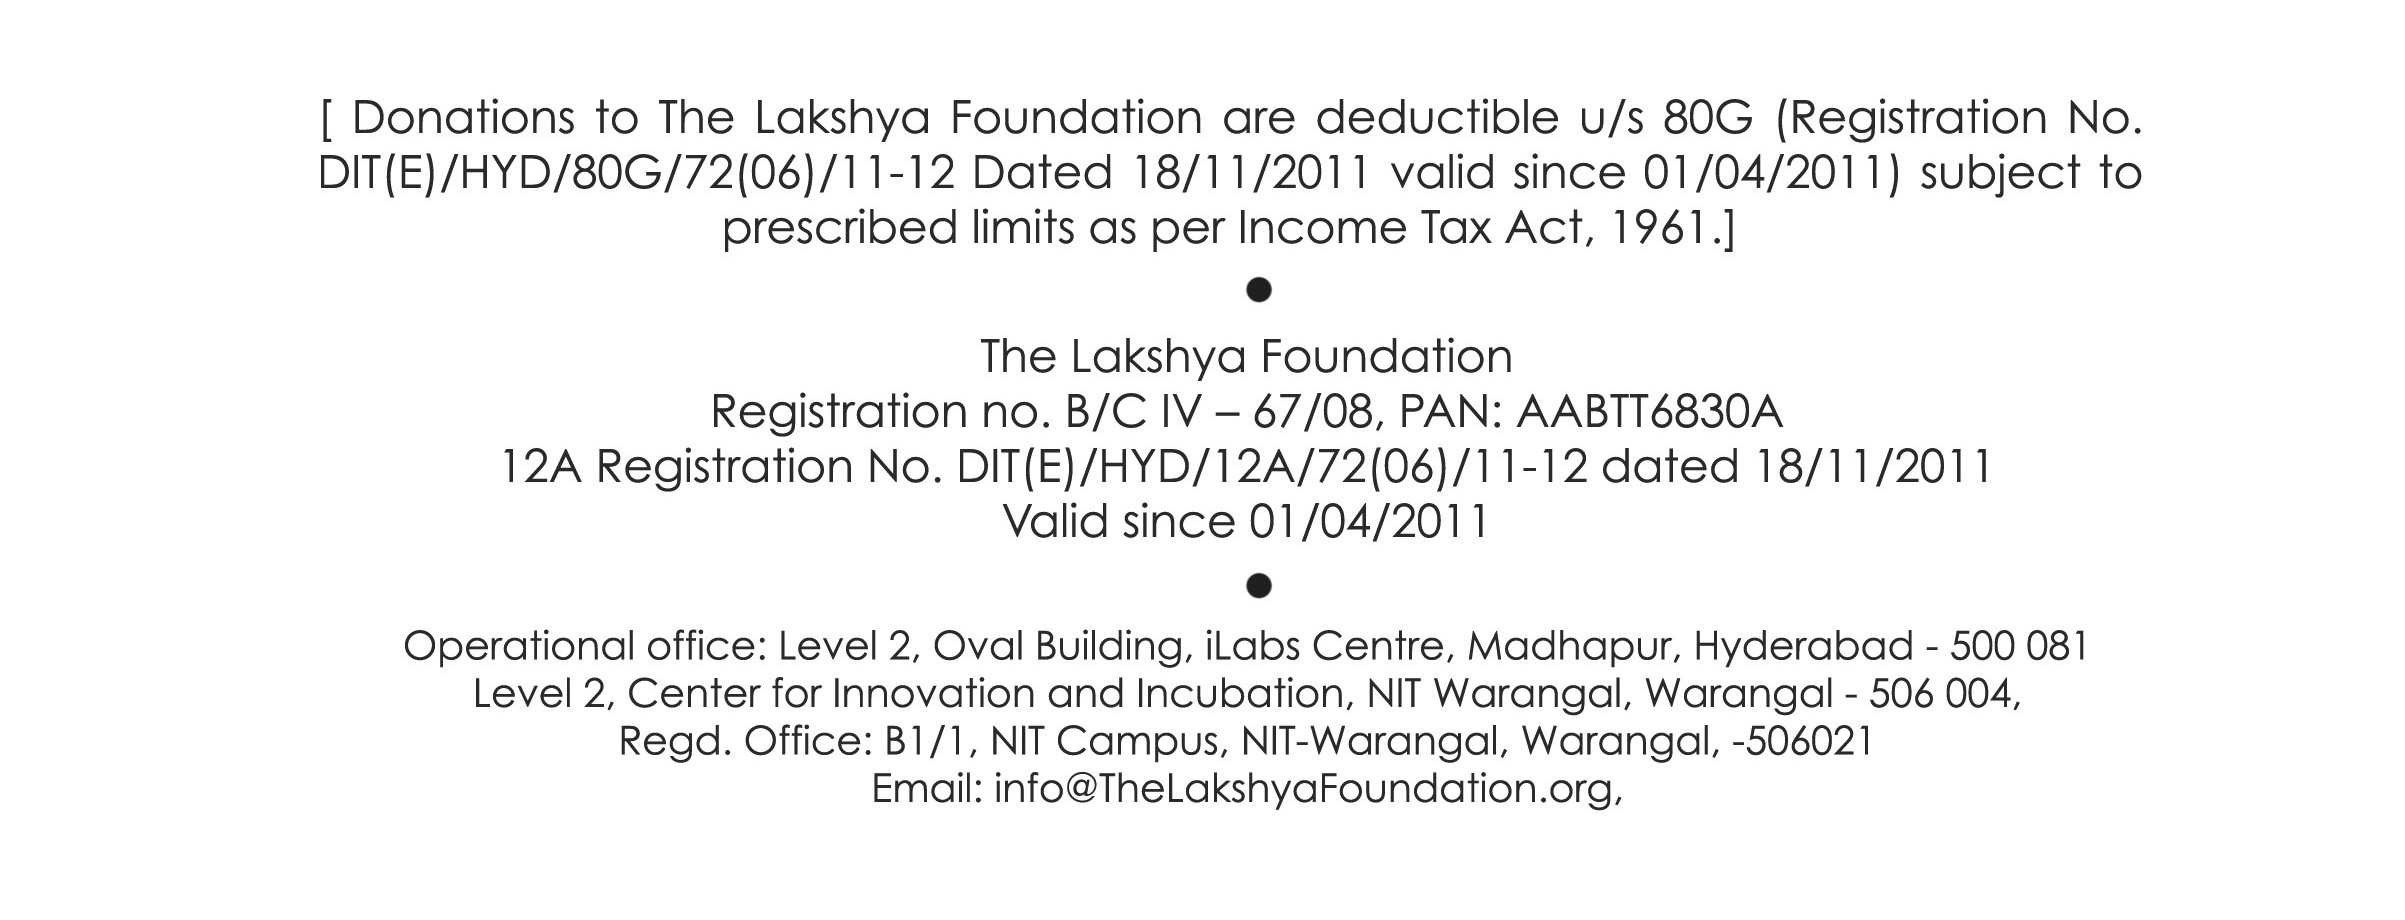
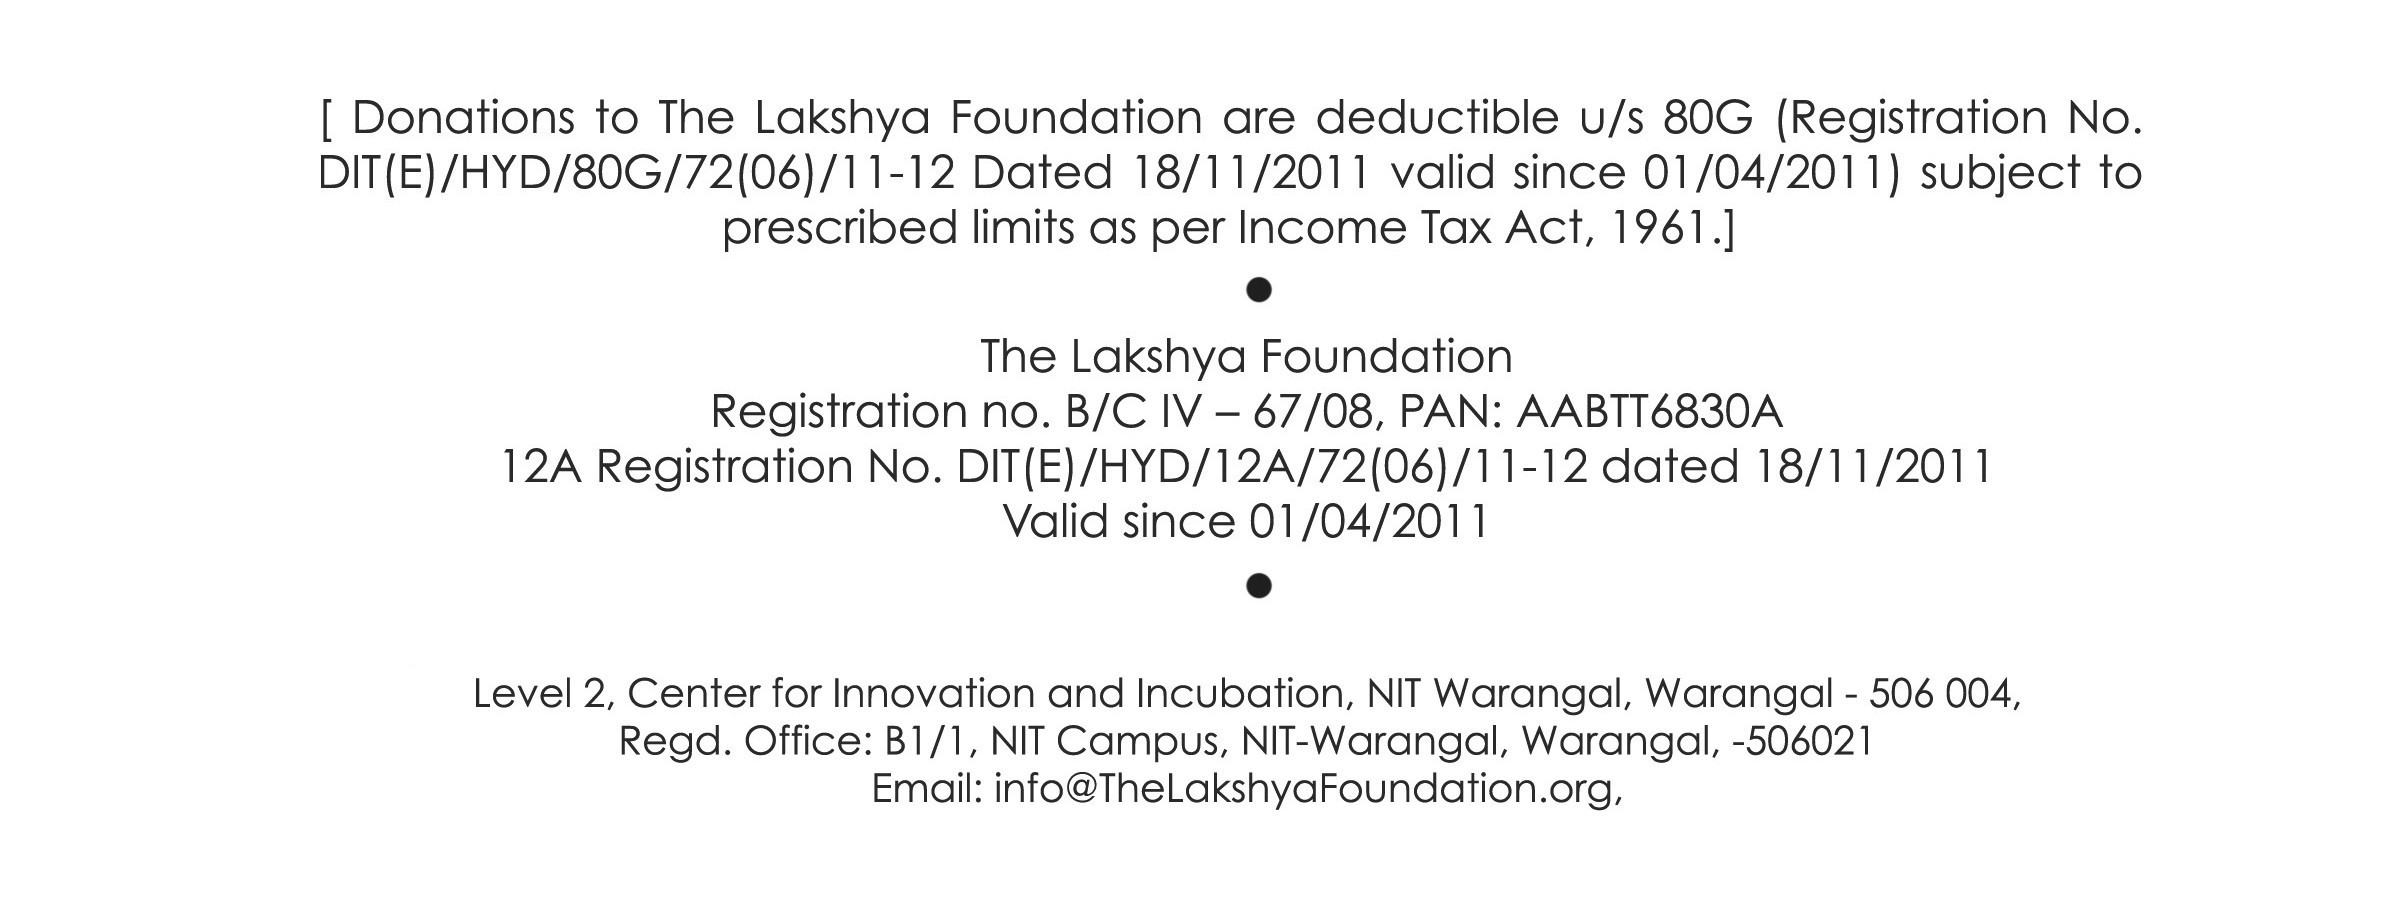
adding email to pledge admin view, and modified receipt footer

Changed region(s): [[0.1559, 0.6696, 0.8732, 0.7304]]

diff --git a/src/lakshya/crowdfunding/models.py b/src/lakshya/crowdfunding/models.py
@@ -111,7 +111,11 @@ class Pledge(models.Model):
     project = models.ForeignKey(Project, related_name='pledges')
     timestamp = models.DateTimeField(auto_now_add=True)
     pledge_fulfilled = models.BooleanField(default=False)
-
+    
+    def get_email(self):
+      return self.user.email
+    email = property(get_email)
+    
     def __unicode__(self):
         return self.project.title + ' - ' + (self.user.get_full_name() or self.user.username)
 

diff --git a/src/lakshya/crowdfunding/admin.py b/src/lakshya/crowdfunding/admin.py
@@ -24,7 +24,8 @@ class ProjectAdmin(admin.ModelAdmin):
 
 
 class PledgeAdmin(admin.ModelAdmin):
-    list_display = ('project', 'amount', 'user', 'pledge_fulfilled')
+    list_display = ('project', 'amount', 'user', 'email', 'pledge_fulfilled')
+    list_filter = ('project','pledge_fulfilled')
 
 admin.site.register(Project, ProjectAdmin)
 admin.site.register(Pledge, PledgeAdmin)
